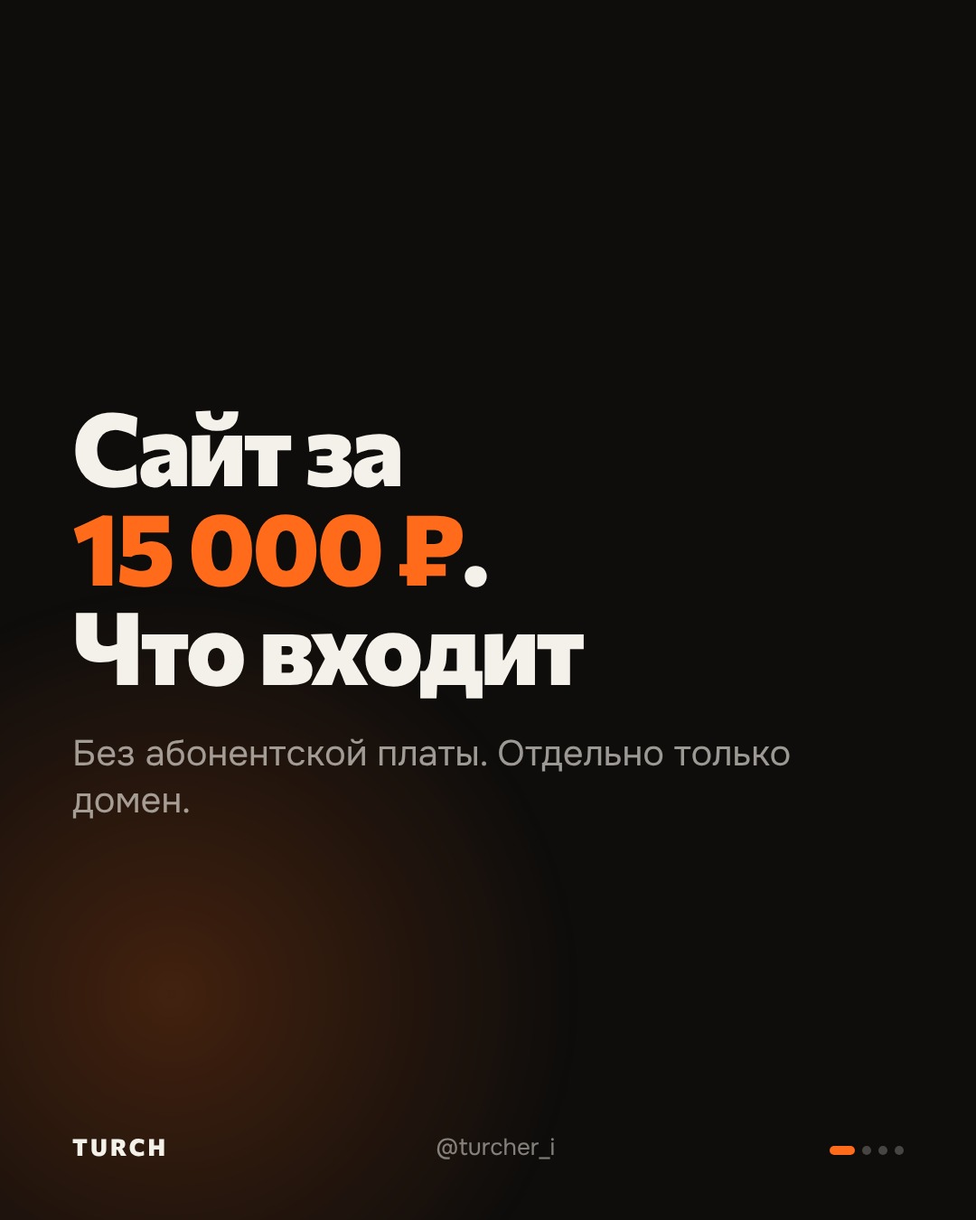
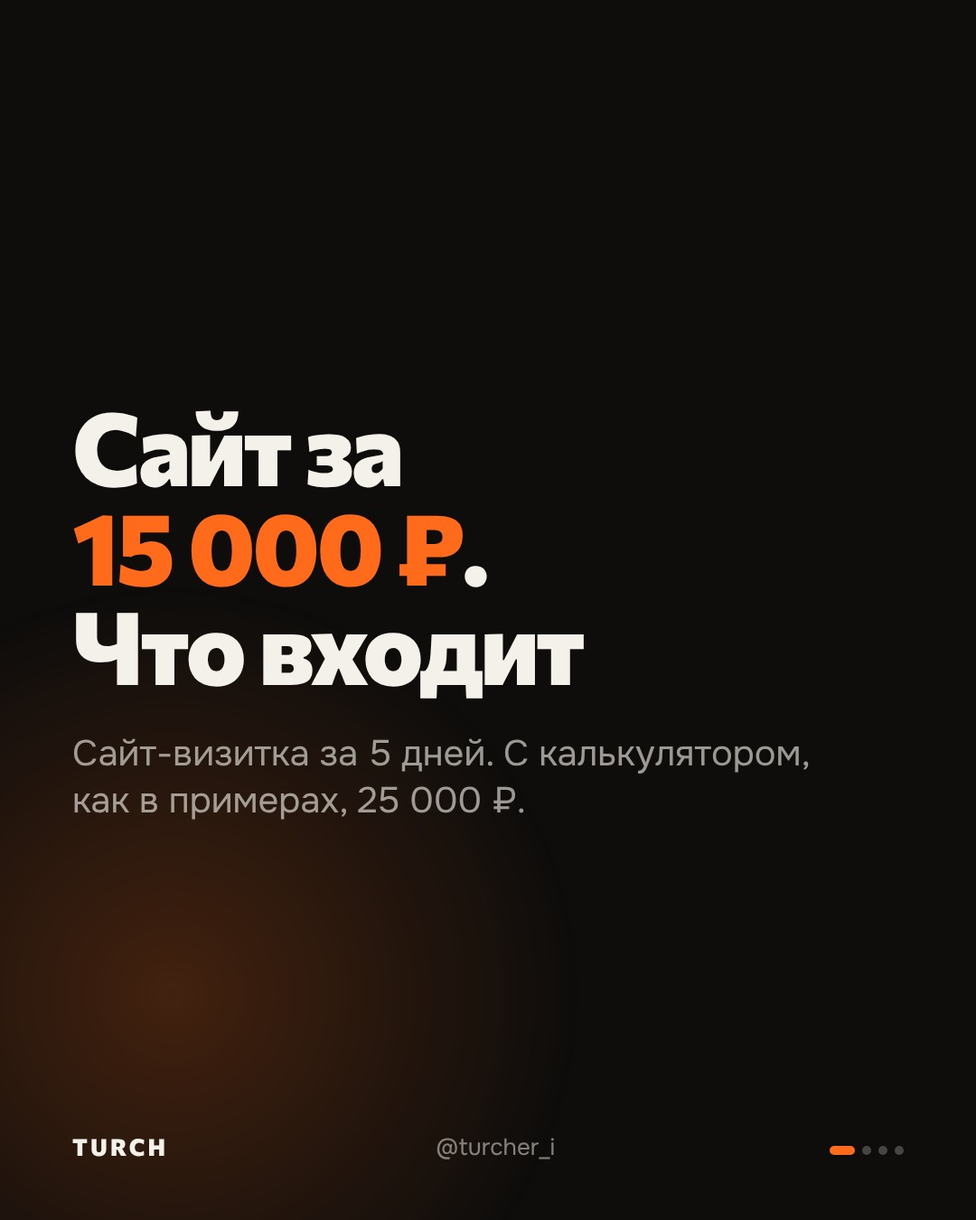
Услуги и путь клиента: тарифы 15/25/40 тыс., оплата 50/50, домен и хостинг на выбор, поддержка; тексты, сайт и навык под новые условия
Claude-Session: https://claude.ai/code/session_01PwMf84AwZ5CKP2ssDkWTv4

Changed region(s): [[0.0611, 0.5911, 0.825, 0.6844]]

diff --git a/src/lib/outreach.ts b/src/lib/outreach.ts
@@ -74,11 +74,11 @@ export function objections(l: LeadLike, ch?: Channel): [string, string][] {
   return [
     [
       'Сколько стоит? Что входит?',
-      `От 15 000 ₽, срок 5–7 дней. Входит: дизайн под вашу нишу, версия для телефона, ваши услуги, цены и фото работ, заявки с сайта сразу вам в мессенджер или на почту, размещение и подключение домена, базовая настройка для Яндекса и Google.\n\nПервый экран сделаю бесплатно за 24 часа, чтобы вы посмотрели до оплаты.`,
+      `Сайт-визитка 15 000 ₽ за 5 дней. Сайт с калькулятором, как в примере, 25 000 ₽ за 7 дней.\n\nВходит: дизайн под вашу нишу, версия для телефона, ваши услуги, цены и фото работ, заявки вам в мессенджер или на почту, подключение домена, настройка для Яндекса и Google, две недели бесплатных правок после запуска.\n\nОплата частями: половина после того, как одобрите первый экран, половина перед запуском. Первый экран сделаю бесплатно за 24 часа.`,
     ],
     [
       'Дорого',
-      `Понимаю. Оплата один раз, без ежемесячной платы за сайт, отдельно только домен, это несколько сотен рублей в год. Обычно ${ORDER[g]} с сайта уже его окупает.\n\nДавайте начнём с бесплатного первого экрана: посмотрите и решите, без обязательств.`,
+      `Понимаю. Можно начать с сайта-визитки за 15 000 ₽, а калькулятор добавить потом. Обычно ${ORDER[g]} с сайта уже его окупает.\n\nДавайте начнём с бесплатного первого экрана: посмотрите и решите, без обязательств.`,
     ],
     [
       'У нас есть Карты / Авито / группа',
@@ -95,6 +95,10 @@ export function objections(l: LeadLike, ch?: Channel): [string, string][] {
     [
       'А вы кто? Есть примеры?',
       `Я делаю сайты для местных компаний. Примеры на той же странице: ниже есть ещё пять сайтов для разных ниш, их можно открыть и потыкать. Пишите сюда, отвечу${other ? `. Если удобнее, я есть в ${other}` : ''}.`,
+    ],
+    [
+      'А домен нужен?',
+      `Не обязательно. Сайт можно разместить на вашем адресе, с вашим названием в .ru: он будет ваш, около 500 ₽ в год, подключение сделаю. Или на бесплатном адресе, а свой подключим потом, когда захотите. Как удобнее?`,
     ],
     [
       'Согласен на бесплатный экран',

diff --git a/src/App.tsx b/src/App.tsx
@@ -420,7 +420,7 @@ const INCLUDED = [
   'Версия для телефона — с него зайдёт большинство клиентов',
   'Ваши услуги, цены, фото работ и контакты',
   'Заявки с сайта сразу вам: в мессенджер или на почту',
-  'Размещение в интернете и подключение домена',
+  'Подключение домена: своего или бесплатного',
   'Базовая настройка для Яндекса и Google',
 ];
 function Offer() {
@@ -486,11 +486,11 @@ function Steps() {
 }
 
 const FAQ: [string, string][] = [
-  ['Сколько стоит сайт?', 'От 15 000 ₽. Точную цену назову после первого экрана — она зависит от количества блоков и функций.'],
+  ['Сколько стоит сайт?', 'Сайт-визитка — 15 000 ₽ за 5 дней. Сайт с калькулятором, как в примерах, — 25 000 ₽ за 7 дней. Несколько страниц — от 40 000 ₽. Оплата частями: половина после того, как одобрите первый экран, половина перед запуском.'],
   ['Что, если первый экран не понравится?', 'Ничего не платите. Первый экран бесплатный и ни к чему не обязывает.'],
   ['Что нужно от меня?', 'Название, телефон, список услуг и цены. Если есть фото работ — пришлите, если нет, подберу.'],
-  ['Сколько стоит содержание сайта?', 'Размещение — без абонентской платы. Домен в зоне .ru обычно стоит несколько сотен рублей в год.'],
-  ['Можно потом поменять цены и тексты?', 'Да. Напишите мне, что поменять, и я внесу правки.'],
+  ['Сколько стоит содержание сайта?', 'Домен по желанию: свой адрес за 300–900 ₽ в год или бесплатный адрес. Хостинг около 200 ₽ в месяц, оформляется на вас. Или поддержка за 1 500 ₽ в месяц: хостинг и мелкие правки уже внутри.'],
+  ['Можно потом поменять цены и тексты?', 'Да. Две недели после запуска мелкие правки бесплатно, дальше в рамках поддержки.'],
 ];
 function Faq() {
   return (

diff --git a/ops/social/make_posts.py b/ops/social/make_posts.py
@@ -122,9 +122,9 @@ for n, (d, kicker, title, sub, t2, pts) in enumerate(DEMOS, 1):
         cta("Хотите такой<br>для своей<br>компании?", DEMO),
     ])
 jobs += render("07-price", [
-    big("Сайт за<br><span class=acc>15 000 ₽</span>.<br>Что входит", "Без абонентской платы. Отдельно только домен."),
+    big("Сайт за<br><span class=acc>15 000 ₽</span>.<br>Что входит", "Сайт-визитка за 5 дней. С калькулятором, как в примерах, 25 000 ₽."),
     text_slide("Делаю", ["Дизайн под вашу нишу", "Версию для телефона", "Ваши услуги, цены и фото работ", "Заявки вам в мессенджер или на почту"]),
-    text_slide("И ещё", ["Размещаю сайт и подключаю домен", "Настраиваю для Яндекса и Google", "Срок 5–7 дней", "Оплата один раз"], start=5),
+    text_slide("И ещё", ["Размещаю сайт и подключаю домен", "Настраиваю для Яндекса и Google", "Две недели правок бесплатно", "Оплата частями, с чеком"], start=5),
     cta("Сначала<br>посмотрите<br>бесплатно", "Не понравится первый экран, ничего не платите."),
 ])
 jobs += render("08-maps", [

diff --git a/ops/business/uslugi-i-roadmap.md b/ops/business/uslugi-i-roadmap.md
@@ -1,0 +1,72 @@
+# TURCH: услуги, условия и путь клиента
+
+Согласовано 27.11.2026.
+
+## 1. Что делаем
+
+| | **Визитка** | **Сайт с калькулятором** (основной) | **Расширенный** |
+|---|---|---|---|
+| Для кого | Мастер или маленькая бригада, нужна ссылка в карты и соцсети | Компания, у которой клиент спрашивает «сколько стоит» | Много услуг, каталог работ, хотят расти в поиске |
+| Страницы | 1 | 1 длинная | 3–6 |
+| Калькулятор или конструктор ниши | нет | да, с ценами клиента | да |
+| Цена | 15 000 ₽ | 25 000 ₽ | от 40 000 ₽ |
+| Срок | 5 рабочих дней | 7 рабочих дней | 10–14 рабочих дней |
+
+Во всех тарифах:
+- дизайн под нишу и фирменные цвета клиента, версия для телефона;
+- тексты пишу сам по ответам клиента;
+- фото клиента, если их мало, подбираю бесплатные стоковые;
+- форма заявки и кнопки мессенджеров, заявки приходят клиенту в Telegram, MAX или на почту;
+- политика конфиденциальности и галочка согласия у формы;
+- Яндекс Метрика, базовая настройка для Яндекса и Google;
+- подключение домена, помощь со ссылкой в карточке 2ГИС и Яндекс Карт;
+- 2 круга правок до запуска и 14 дней бесплатных мелких правок после.
+
+Отдельно:
+- **Поддержка:** 1 500 ₽ в месяц. Внутри хостинг, до 1 часа правок (цены, фото, акции), слежу, что сайт и заявки работают. Без поддержки правки по договорённости.
+- **Дополнительный блок или страница** после запуска: от 3 000 ₽.
+
+Не делаем (говорим прямо и не берёмся): интернет-магазины с оплатой и корзиной, CRM, Битрикс, мобильные приложения, SEO-продвижение и рекламу. Логотип не рисуем, работаем с тем, что есть.
+
+## 2. Что оплачивает клиент сам
+
+- **Домен по желанию:** свой (`имя.ru`, 300–900 ₽ в год, оформляется на клиента) или бесплатный адрес `имя.turch.ru`. Перейти на свой можно в любой момент.
+- **Хостинг на выбор клиента:** сам оформляет российский хостинг (Timeweb или Beget, около 200 ₽ в месяц) или берёт поддержку за 1 500 ₽ в месяц, где хостинг уже внутри. Хостинг российский, потому что сайт собирает телефоны, а по 152-ФЗ их нужно хранить в России.
+- **Уведомление в Роскомнадзор** об обработке персональных данных подаёт клиент, я подсказываю как.
+
+## 3. Оплата и правила
+
+- 50% после того, как клиент одобрил первый экран и мы согласовали бриф. 50% перед подключением домена.
+- Работаю как самозанятый, чек из «Мой налог» на каждую оплату. Юрлицам подходит, если им нужен чек самозанятого.
+- Бесплатный первый экран ни к чему не обязывает. Не понравился, клиент ничего не платит.
+- Предоплата не возвращается за уже сделанную работу. Если отказ до начала разработки, возвращаю полностью.
+- Если клиент не присылает материалы 14 дней, проект ставится на паузу. Продолжаем, когда пришлёт.
+- Правки присылаются одним списком, а не по одной в течение дня. Так быстрее для обоих.
+- Отвечаю в рабочие дни с 10 до 20 по Москве, в течение 2–3 часов.
+
+## 4. Путь клиента
+
+| # | Этап | Что делаю я | Что от клиента | Срок |
+|---|---|---|---|---|
+| 0 | Первое сообщение | Персональная ссылка с его названием, напоминания через 2 и 5 дней (трекер) | Ответ | — |
+| 1 | Знакомство | 3 вопроса: чем занимаетесь, откуда сейчас клиенты, что спрашивают первым. Предлагаю бесплатный первый экран | 3–5 фото работ, услуги с ценами «от», телефон или мессенджер для заявок | 1 день |
+| 2 | Бесплатный первый экран | Собираю на шаблоне ниши с его фото, ценами и названием. Ссылка и скриншот | Мнение: нравится или что поправить | 24 часа |
+| 3 | Предложение | Рекомендую тариф, называю цену, срок и что входит. Спрашиваю про домен: свой или бесплатный | Выбор тарифа | 1–2 дня |
+| 4 | Договорённость | Бриф одной страницей: что будет на сайте. Счёт на 50%, чек | Подтверждение брифа, предоплата | 1 день |
+| 5 | Материалы | Чек-лист: логотип, все фото, услуги и цены, адрес, график, отзывы, данные для политики | Материалы одним сообщением или архивом | до 3 дней |
+| 6 | Разработка | Показываю промежуточную ссылку в середине срока | — | 5–14 дней по тарифу |
+| 7 | Правки | Вношу 2 круга правок | Список правок | 1–2 дня на круг |
+| 8 | Запуск | Домен и хостинг, тестовая заявка доходит, Метрика, ссылка в карточке на картах | Оставшиеся 50%, доступ к домену (если свой) | 1 день |
+| 9 | Сдача | Короткая инструкция: как приходят заявки и что делать дальше. Все доступы у клиента | — | в день запуска |
+| 10 | После запуска | Через 2 недели спрашиваю, пошли ли заявки. Прошу отзыв и разрешение показать сайт как кейс. Предлагаю поддержку | Отзыв, рекомендация знакомым | 14 дней |
+
+Бонус за рекомендацию: 1 500 ₽ скидки или месяц поддержки за каждого приведённого клиента.
+
+## 5. Чтобы всем было хорошо
+
+- Клиент видит результат до оплаты: бесплатный первый экран снимает главный страх «заплачу и получу ерунду».
+- Цена, срок и что входит фиксируются в брифе до предоплаты. Всё, чего нет в брифе, обсуждается отдельно, без сюрпризов в счёте.
+- Домен и хостинг оформлены на клиента: сайт его, а не ваш.
+- Вы защищены предоплатой, лимитом правок и паузой при молчании.
+
+После согласования добавлю готовые сообщения для каждого этапа в трекер, а бриф и чек-лист материалов сделаю отдельными шаблонами.

diff --git a/.claude/skills/threads-posts/references/account.md b/.claude/skills/threads-posts/references/account.md
@@ -8,9 +8,12 @@
 
 ## Факты, которые можно использовать
 
-- Сайт от 15 000 ₽, срок 5–7 дней. Оплата один раз, отдельно только домен.
+- Тарифы: сайт-визитка 15 000 ₽ за 5 дней, сайт с калькулятором (как в примерах) 25 000 ₽ за 7 дней, несколько страниц от 40 000 ₽. Оплата частями: 50% после одобрения первого экрана, 50% перед запуском. Работает как самозанятый, с чеком.
+- Домен по желанию: свой (300–900 ₽ в год, оформляется на клиента) или бесплатный адрес. Хостинг около 200 ₽ в месяц на клиента или поддержка 1 500 ₽ в месяц (хостинг и мелкие правки внутри). Две недели бесплатных правок после запуска.
+- Бонус за рекомендацию: 1 500 ₽ скидки или месяц поддержки за приведённого клиента.
+- Полный список условий: `ops/business/uslugi-i-roadmap.md`.
 - Первый экран сайта бесплатно за 24 часа, чтобы владелец посмотрел до оплаты. От него нужны 3–5 фото работ.
-- Входит: дизайн под нишу, версия для телефона, услуги, цены, фото работ, заявки с сайта сразу владельцу в мессенджер или на почту, размещение и домен, базовая настройка для Яндекса и Google.
+- Входит: дизайн под нишу, версия для телефона, услуги, цены, фото работ, заявки с сайта сразу владельцу в мессенджер или на почту, подключение домена, политика конфиденциальности и галочка согласия, базовая настройка для Яндекса и Google.
 - Примеры сайтов в портфолио (это демо, а не заказы клиентов, так и говорить):
   - ремонт квартир: калькулятор сметы, клиент сам считает стоимость (/remont/);
   - натяжные потолки: 3D-примерка фактуры и подсветки с ценой (/potolki/);

diff --git a/ops/social/README.md b/ops/social/README.md
@@ -102,7 +102,7 @@
 
 Дизайн под вашу нишу, версия для телефона, ваши услуги, цены и фото работ. Заявки с сайта приходят вам в мессенджер или на почту. Размещение, домен и базовая настройка для Яндекса и Google тоже входят. Срок 5–7 дней.
 
-Абонентской платы нет, отдельно только домен: несколько сотен рублей в год.
+Это сайт-визитка. Сайт с калькулятором, как в примерах, 25 000 ₽. Платите частями: половину после того, как одобрите первый экран, половину перед запуском.
 
 Сначала бесплатно покажу первый экран с вашими фото, решите после. Напишите «сайт» в директ.
 
